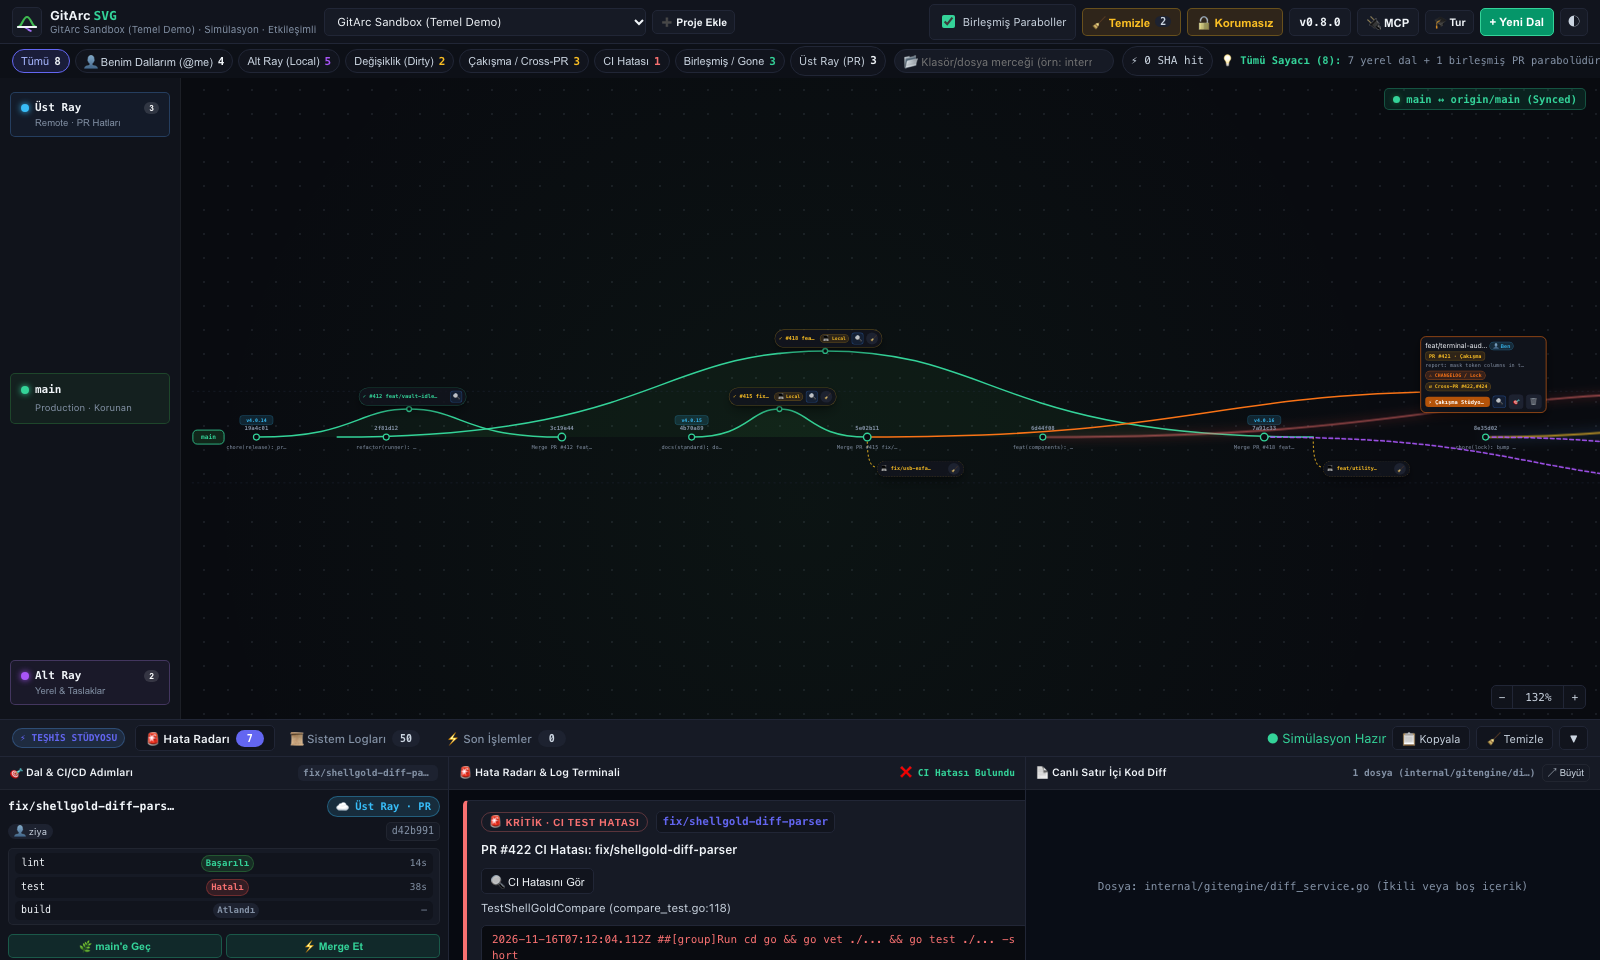
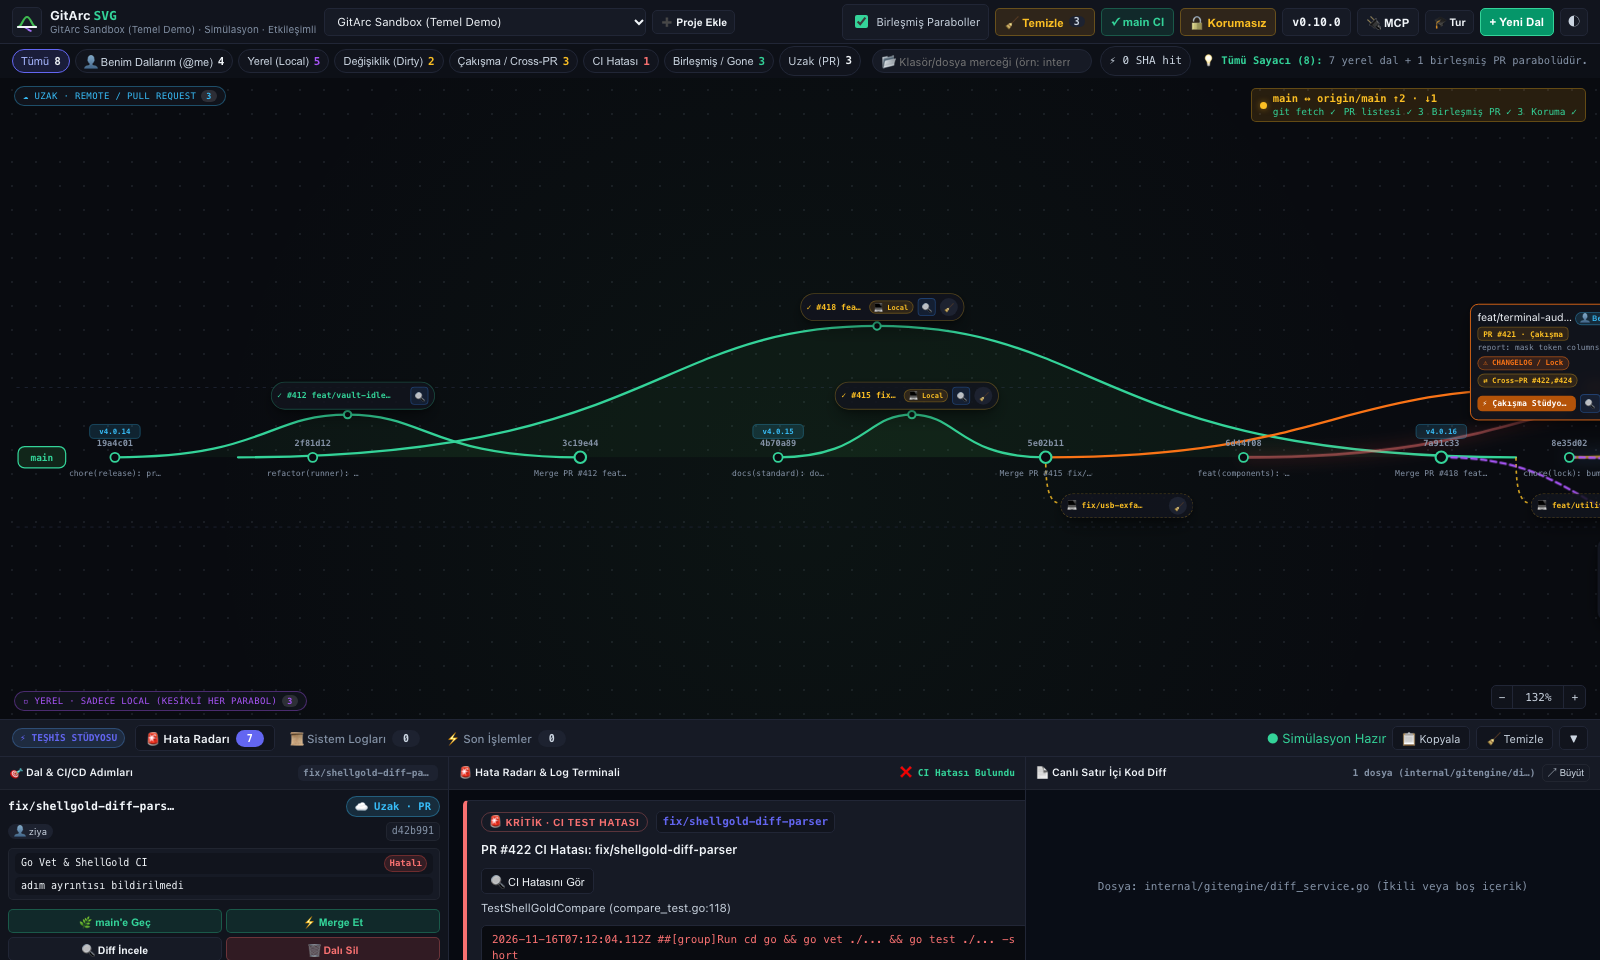
release: v0.10.0 (README ve ekran görüntüleri yenilendi)

diff --git a/web/index.html b/web/index.html
@@ -46,7 +46,7 @@
         <button type="button" class="btn warn" id="btn-prune-gone" title="Uzakta silinmiş veya birleşmiş dalları temizle">🧹 Temizle <span class="badge-count" id="prune-count">0</span></button>
         <button type="button" class="btn ghost" id="btn-main-ci" hidden title="Merge sonrası omurga testleri">main CI</button>
         <button type="button" class="btn ghost" id="btn-protect-branch" title="GitHub main dal koruma ve güvenlik durumu">🛡 Koruma</button>
-        <button type="button" class="btn ghost mono" id="btn-update-check" title="Sürüm, güncelleme ve Team modu">v0.9.0</button>
+        <button type="button" class="btn ghost mono" id="btn-update-check" title="Sürüm, güncelleme ve Team modu">v0.10.0</button>
         <button type="button" class="btn ghost" id="btn-mcp-connect" title="AI &amp; MCP bağlantısını yapılandır">🔌 MCP</button>
         <button type="button" class="btn ghost sm" id="btn-start-tour" title="GitArc etkileşimli kullanım turunu başlat">🎓 Tur</button>
         <button type="button" class="btn emerald" id="btn-new-branch" title="main omurgasından yeni parabolik dal aç">+ Yeni Dal</button>
@@ -465,7 +465,7 @@
               <span>Self-Update &amp; Team Server Durumu</span>
               <span class="chip accent mono" id="sec-team-chip">Bireysel Masaüstü</span>
             </h4>
-            <div class="layer-line" id="sec-update-status">Mevcut sürüm: v0.9.0</div>
+            <div class="layer-line" id="sec-update-status">Mevcut sürüm: v0.10.0</div>
             <div class="cmd-box"><code class="cmd-code" id="sec-update-cmd">git pull --ff-only origin main &amp;&amp; go build -o gitarc .</code></div>
             <div class="det-actions">
               <button type="button" class="btn primary sm" id="btn-run-update-check">🔄 Uzak Etiketleri Denetle</button>

diff --git a/web/modules/inspector-cards.js b/web/modules/inspector-cards.js
@@ -133,7 +133,7 @@ export function branchHeaderHtml(v) {
       <div class="det-title-row">
         <h3 class="det-branch-name">${isVirtualWip ? '✏ Çalışma Alanı (Kaydedilmemiş Değişiklikler)' : esc(b.name)}</h3>
         <span class="chip ${b.state === 'merged' ? 'ok' : (isVirtualWip ? 'purple' : (b.hemisphere === 'lower' ? 'purple' : 'accent'))}">
-          ${isVirtualWip ? 'Yerel Taslak · Uncommitted' : (b.state === 'merged' ? 'Tam Parabol' : (isAlreadySynced ? '✓ main ile Eşit (Kalıntı Dal)' : (b.hemisphere === 'lower' && b.aheadMain === 0 ? '🌱 Yeni Yerel Dal' : b.hemisphere === 'lower' ? 'Yerel · Local' : 'Üst Ray · PR')))}
+          ${isVirtualWip ? 'Yerel Taslak · Uncommitted' : (b.state === 'merged' ? 'Tam Parabol' : (isAlreadySynced ? '✓ main ile Eşit (Kalıntı Dal)' : (b.hemisphere === 'lower' && b.aheadMain === 0 ? '🌱 Yeni Yerel Dal' : b.hemisphere === 'lower' ? 'Yerel · Local' : 'Uzak · PR')))}
         </span>
       </div>
       <div class="det-badges">

diff --git a/web/fallback.js b/web/fallback.js
@@ -708,8 +708,8 @@
       },
       checkUpdates() {
         return {
-          currentVersion: sim.repo.appVersion || '0.9.0',
-          latestVersion: sim.repo.appVersion || '0.9.0',
+          currentVersion: sim.repo.appVersion || '0.10.0',
+          latestVersion: sim.repo.appVersion || '0.10.0',
           updateAvailable: false,
           updateCommand: 'git pull --ff-only origin main && go build -o gitarc .',
           teamMode: Boolean(sim.repo.teamMode),

diff --git a/web/modules/topbar.js b/web/modules/topbar.js
@@ -11,7 +11,7 @@ export function modeLabel(repo, offline) {
 }
 
 export function versionView(repo) {
-  const text = `v${repo.appVersion || '0.9.0'}${repo.teamMode ? ' · TEAM' : ''}${repo.updateAvailable ? ' ⬆ Güncelle' : ''}`;
+  const text = `v${repo.appVersion || '0.10.0'}${repo.teamMode ? ' · TEAM' : ''}${repo.updateAvailable ? ' ⬆ Güncelle' : ''}`;
   return { text, className: `btn mono ${repo.updateAvailable ? 'warn' : 'ghost'}` };
 }
 

diff --git a/internal/gitengine/collector.go b/internal/gitengine/collector.go
@@ -18,7 +18,7 @@ import (
 
 const (
 	// AppVersion identifies the current GitArc release embedded at build time.
-	AppVersion        = "0.9.0"
+	AppVersion        = "0.10.0"
 	maxActiveBranches = 40
 )
 

diff --git a/HANDOVER.md b/HANDOVER.md
@@ -1,8 +1,8 @@
 # GitArc Teknik Devir Teslim ve Mühendislik Rehberi (`HANDOVER.md`)
 
-> **Mevcut Sürüm:** `0.9.0` (`VERSION` ve `internal/gitengine/collector.go` `AppVersion`)  
+> **Mevcut Sürüm:** `0.10.0` (`VERSION` ve `internal/gitengine/collector.go` `AppVersion`)  
 > **Modül / Go Sürümü:** `module gitarc` · `go 1.27.3` · Sıfır dış bağımlılık (`go.mod`)  
-> **Son Doğrulanmış Test Durumu:** `go vet ./... && go test -count=1 -race -cover ./... && go build -o gitarc .` → **152 üst düzey Go testi + 199 JS testi geçti** (`gitarc`: 21 (JS sarmalayıcı dahil; `main()` ve OS araçları dahil kapsam **%74**), `internal/gitengine`: 106 · kapsam **%84**, `internal/mcp`: 3, `internal/model`: test dosyası yok), `node --check web/*.js web/modules/*.js` → **0 hata**. Ayrıntılar için bkz. **Bölüm 8 (Test Altyapısı)**.
+> **Son Doğrulanmış Test Durumu:** `go vet ./... && go test -count=1 -race -cover ./... && go build -o gitarc .` → **152 üst düzey Go testi + 200 JS testi geçti** (`gitarc`: 21 (JS sarmalayıcı dahil; `main()` ve OS araçları dahil kapsam **%74**), `internal/gitengine`: 106 · kapsam **%84**, `internal/mcp`: 3, `internal/model`: test dosyası yok), `node --check web/*.js web/modules/*.js` → **0 hata**. Ayrıntılar için bkz. **Bölüm 8 (Test Altyapısı)**.
 
 ---
 
@@ -18,7 +18,7 @@ GitArc, standart düz `git log` ağaçları yerine Git ve GitHub yaşam döngüs
 
 ---
 
-## 2. Sürüm Kronolojisi (`v0.1.0` → `v0.9.0`)
+## 2. Sürüm Kronolojisi (`v0.1.0` → `v0.10.0`)
 
 | Sürüm | Öne Çıkan Özellikler |
 | :--- | :--- |
@@ -30,6 +30,7 @@ GitArc, standart düz `git log` ağaçları yerine Git ve GitHub yaşam döngüs
 | **v0.7.0** | **Mega-Repo (10K Geliştirici) Ölçekleme:** SHA-bazlı `evalCache` (`CacheHits`), `--sort=-committerdate --count=40` dal penceresi, $O(N \cdot F)$ ters indeks Cross-PR motoru, `👤 Benim Dallarım (@me)` ve `📂 Klasör/Dosya Merceği`, `-team` ekip sunucusu modu, Windows `rundll32` tarayıcı açılışı, Branch Protection (`/api/repo/protect`) ve Update Checker (`/api/system/update-check`). |
 | **v0.8.0** | **PocketUI Alt Çekmece (Bottom Dock)** (Radar/Loglar/İşlemler), **Tam Genişlik Hata & Uyarı Kartları** (dosya etiketleri, CI hata logu snippet'i, kopyalanabilir komut satırı), **Taze Dal Ayrımı** (`🌱 Yeni Yerel Dal` · `aheadMain == 0` dalların yanlışlıkla `origin: gone` sayılmasını engelleme), **Mükerrer Dal Açma Kalkanı**, **Konsolsuz Commit & PR Stüdyosu** (`/api/working-tree/commit`, yerel `git checkout -b` akışı), **Push Öncesi PR Başlık & Açıklama** (`PromoteBranchWithMeta`), **`CI: RUNNING` Nabız Efekti** (`.running-pulse`), polling tabanlı **Otomatik Merge Kuyruğu**, **Alt Ray Yerel Kalıntı Kuyruğu** + `💻 Local` rozeti, otomatik `HEAD → main` geçişli `DeleteBranch`/`PruneGone`. |
 | **v0.9.0** | **Koyu/Açık Tema Düğmesi** (`theme.js`), **okunabilir ölçek + sağ uca yaslanma** (`computeView`, enterprise demosu okunur), omurga genişliğinde yalnızca birleşmiş yayların sayılması, sınırsız şerit ve dinamik omurga yerleşimi, `main()`/`openBrowser`/klasör seçici dahil geniş test altyapısı (sahte `gh` stub'ı, JS testleri, `HOME` izolasyonu, `version_test.go`), diff görüntüleyici, AI teklif kartı, `.gitarc` güvenlik yapılandırması, README ekran görüntüleri. |
+| **v0.10.0** | **Dürüst kokpit:** uydurma CI verileri kalktı, merge sonrası `main` CI rozeti ve radar uyarısı (`fetchMainCI`); **hız:** dal başına `gh` sorguları önbellekte (anlık görüntü ~13 sn → ~3 sn), Temizle tek `git push --delete` ile hepsini siler (`IsPrunable` tek kural); **birleşmiş PR detayı** (gerçek başlık/açıklama) ve dosya dosya diff'i (`merge` diff türü); **sol şerit kalktı**, köşe etiketleri/çipler, **Yerel/Uzak** adları; **omurga dalı seçici** (`SetBaseBranch`) ve `origin/HEAD` tespiti; **uzun ömürlü dallar** (`IsLongLivedBranch`); "uzağa gidiyor" izi; modüler arayüz (`canvas.js`/`inspector.js`/`modals.js` bölündü), açık tema düzeltmeleri |
 
 ---
 

diff --git a/CHANGELOG.md b/CHANGELOG.md
@@ -4,6 +4,14 @@ Bu proje [Keep a Changelog](https://keepachangelog.com/tr/1.0.0/) biçimini ve S
 
 ## [Yayımlanmamış]
 
+## [0.10.0] - 2026-11-19
+
+Bu sürümün ana temaları: **kokpitin dürüstlüğü** (uydurma CI verileri kalktı, merge sonrası `main` testleri görünür), **büyük depolarda hız ve doğruluk** (anlık görüntü ~13 sn → ~3 sn, Temizle yavaş bağlantıda artık hepsini siler), **birleşmiş PR'ın tam detayı ve dosya dosya diff'i**, **sol şeridin kalkması ve Yerel/Uzak adları**, **omurga dalı seçici ve uzun ömürlü dallar**, açık tema düzeltmeleri.
+
+### Dokümantasyon
+- **README yenilendi:** Tüm ekran görüntüleri yeni arayüzle yeniden alındı (kokpit, hata radarı, çakışma stüdyosu, tur); köşe etiketleri/çipler, birleşmiş PR detayı ve açık tema için üç yeni görüntü eklendi. Metin Yerel/Uzak adlarına, omurga seçiciye, uzun ömürlü dallara, `main` CI rozeti ve dosya dosya diff'e göre güncellendi.
+- **Düzeltme (ekran görüntüsünden çıktı):** Dal penceresi başlığındaki rozet hâlâ `Üst Ray · PR` yazıyordu; `Uzak · PR` oldu (regresyon testi eklendi).
+
 ### Eklenenler
 - **AI Commit/PR Önerisini Onaylama (`POST /api/proposal/approve`):** MCP (`gitarc_propose_commit`) ile hazırlanan öneri kartındaki "✓ Onayla: Commit At & PR Aç" düğmesi artık gerçekten çalışır: `Manager.ApproveProposal` yeni dalı açar, **yalnızca önerideki dosyaları** stage eder, commit atar, pushlar ve PR açar. Kullanıcı yalnızca dal adı, commit mesajı, PR başlığı ve açıklamasını düzenleyebilir; dosya listesi her zaman önerinin kendisinden gelir (istemci `files` alanı yok sayılır). Öneri kimliği eşleşmezse, bekleyen öneri yoksa (çift tıklama dahil), Team modunda, gizli dosya veya birleşmiş dal adı varsa reddedilir; hata olursa öneri bekleyen durumda kalır ve yeniden denenebilir. Canlı motor, simülasyon ve çevrimdışı `LocalFallbackEngine` (`approveProposal`) aynı kuralları uygular.
 - **Veri Toplama Adımları (`SyncSteps`) ve 2 Satırlı Senkron Rozeti:** Sağ üstteki `main ↔ origin/main (Synced)` rozetinin altına `git fetch ✓ · PR listesi ✓ 20 · Birleşmiş PR ✓ · Koruma ?` satırı eklendi. Her adım için durum (`ok`, `pending ⏳`, `stale ↻`, `failed ✗`, `unknown ?`, `skipped –`), süre, sayı ve "ne kadar önce" bilgisi tooltip'te görünür. "Synced" yalnızca yerel `origin/main` referansına bakar; bu satır hangi verinin eski veya eksik olduğunu gösterir. Simülasyon ve çevrimdışı motor aynı şekli üretir.

diff --git a/AGENTS.md b/AGENTS.md
@@ -44,11 +44,11 @@ Kullanıcı bu projede her geliştirme, hata düzeltme veya özellik ekleme otur
 
 **Terim notu:** Arayüzde kullanıcıya "Üst Ray/Alt Ray" değil **"Uzak" (GitHub/PR) ve "Yerel" (local)** denir. Kod içi adlar (`upper`/`lower`, `btn-upper-ray`) tarihsel olarak aynı kalır; yeni kullanıcı metinleri Yerel/Uzak yazılmalıdır.
 
-## 3. Mimari ve Dosya Haritası (`v0.9.0`)
+## 3. Mimari ve Dosya Haritası (`v0.10.0`)
 
 - `main.go` / `main_test.go`: HTTP sunucusu, güvenlik middleware (`root`, `guard`), 34 `/api/*` rota kaydı (takma adlar dahil), `-addr`, `-repo`, `-open`, `-mcp`, `-team` bayrakları. Testler: `main_test.go` (CSP & güvenlik akışı), `main_guard_test.go` (oturum, `decodePOST`, Origin), `main_handlers_test.go` (canlı/sim handler akışı, statik başlıklar), `canvas_js_test.go` (JS testlerini `go test` içinden çalıştırır).
 - `internal/model/model.go`: `CockpitSnapshot`, `RepoMeta`, `CommitNode`, `BranchArc`, `PRStatus`, `CIStatus`, `ConflictDetail`, `ConflictStudioPayload`, `ActionLogEntry`.
-- `internal/gitengine/collector.go`: `AppVersion` (`0.9.0`), `CollectLiveRepo`, SHA-bazlı `evalCache`, 40-dal sıralı penceresi, `collectLocalBranches` (taze yerel dal ayrımı), `collectRemoteOnlyBranches`, `ParseMergeTreeOutput`, `BuildSuggestedCommand`.
+- `internal/gitengine/collector.go`: `AppVersion` (`0.10.0`), `CollectLiveRepo`, SHA-bazlı `evalCache`, 40-dal sıralı penceresi, `collectLocalBranches` (taze yerel dal ayrımı), `collectRemoteOnlyBranches`, `ParseMergeTreeOutput`, `BuildSuggestedCommand`.
 - `internal/gitengine/simulation.go`: `Manager`, in-memory `simRepo` sanal durum yönetimi, `SyncSpine`, `ProtectDefaultBranch`, `CheckForUpdates`, kalıcı `actionLogs`.
 - `internal/gitengine/live_mutations.go`: Canlı Git/GitHub mutasyonları (`commitWorkingTreeLive` yerel `checkout -b` akışı, `promoteBranchLive`, `mergeBranchLive`, `deleteBranchLive` & `pruneGoneLive` otomatik `HEAD → main` geçişi, `updatePRMetaLive`, `amendLastCommitLive`).
 - `internal/gitengine/collector_github.go`: `gh` ile açık/birleşmiş PR, CI ve Branch Protection/Ruleset sorgusu (10 sn `ghCache`; her mutasyondan sonra `InvalidateGHCache`).
